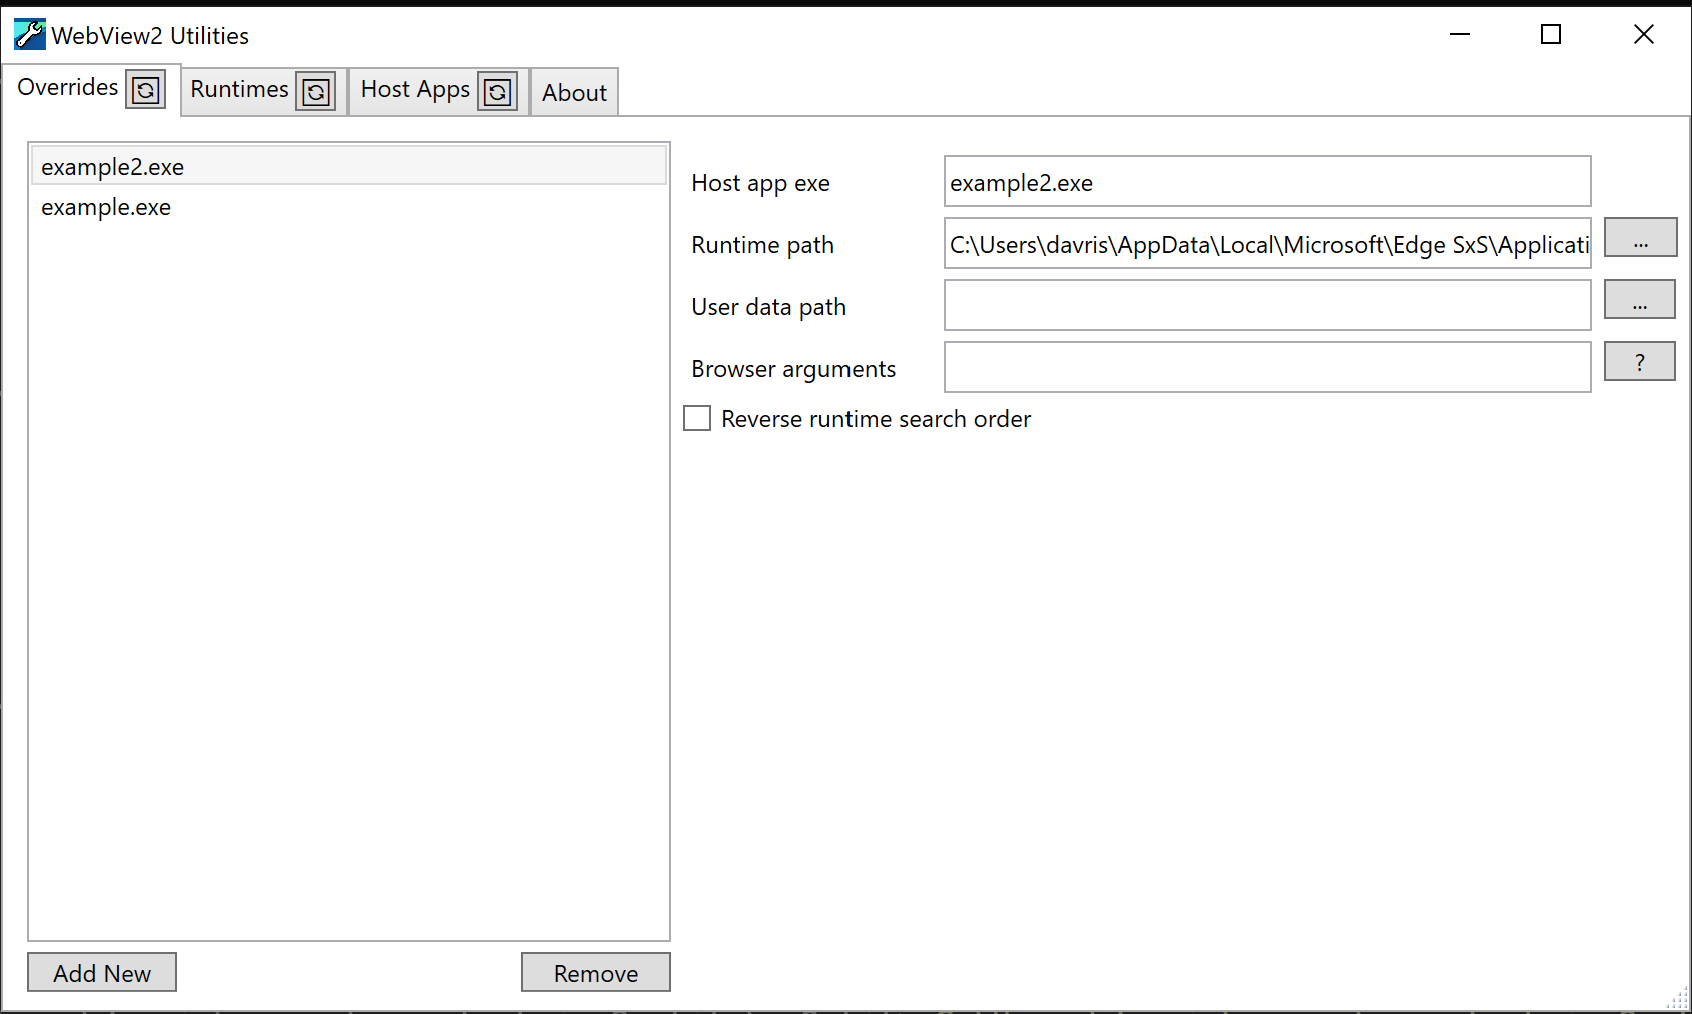
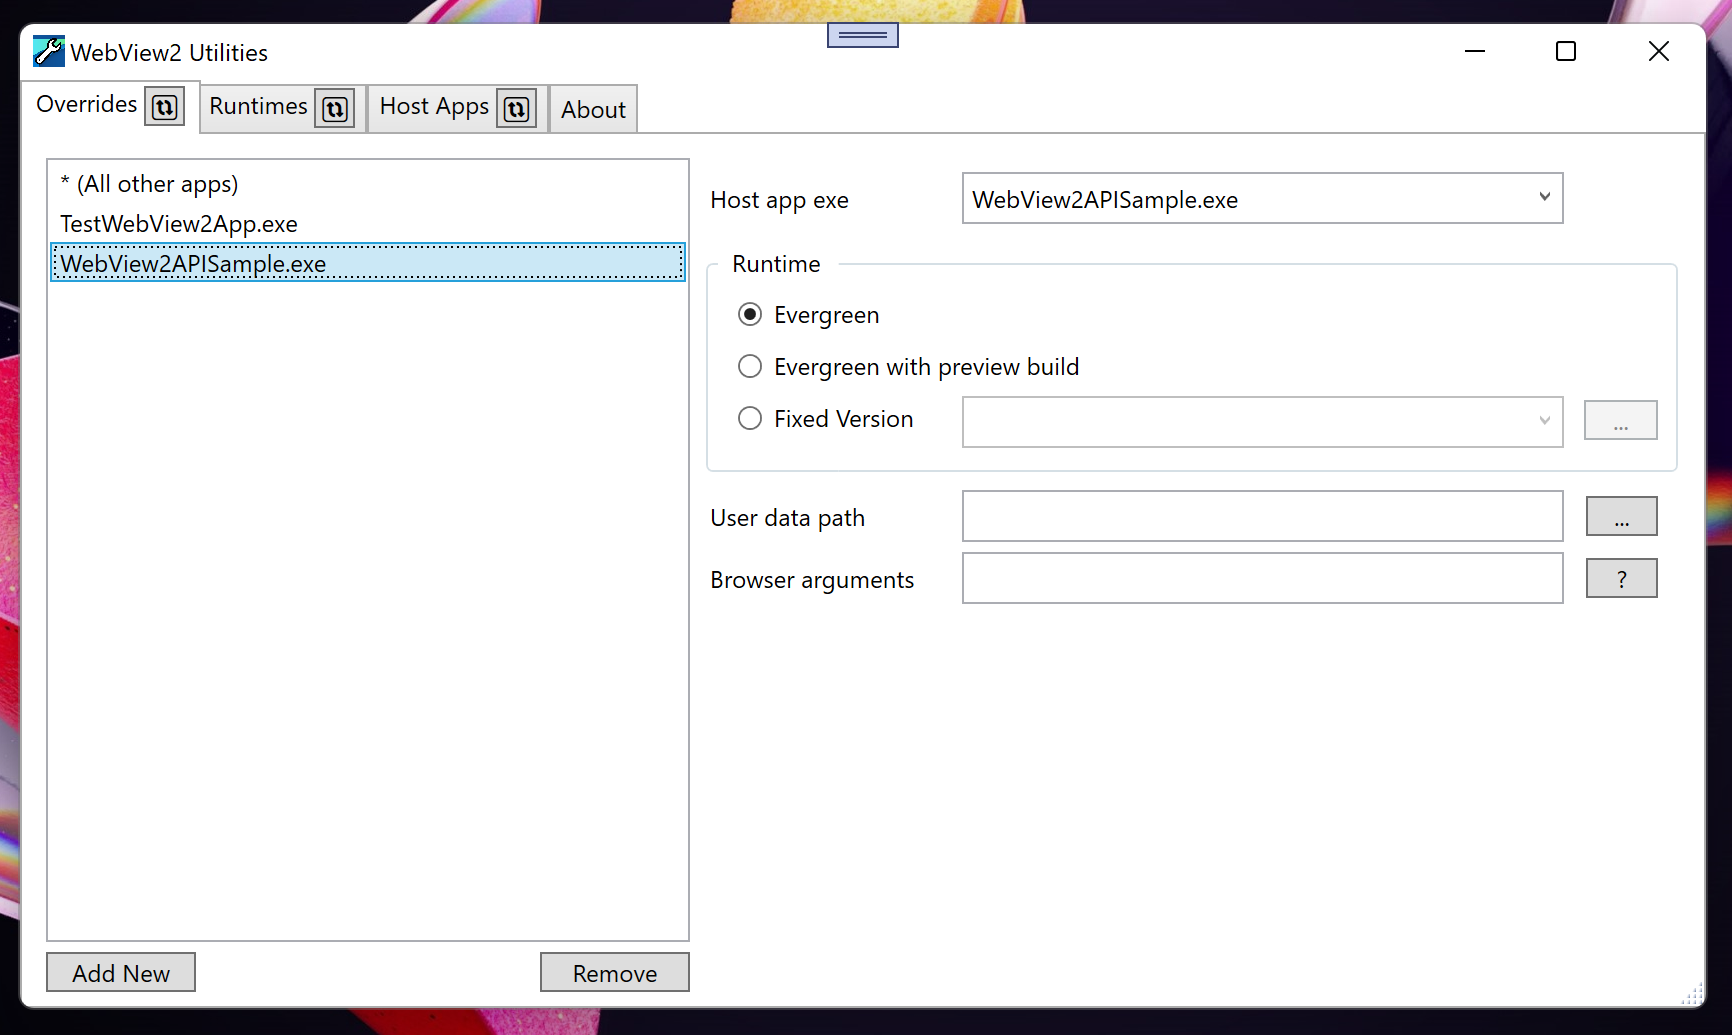
Update readme. Fix version sorting bug.

Changed region(s): [[0.0, 0.0, 1.0, 1.0], [0.3995, 0.5503, 0.5225, 0.5809], [0.3995, 0.4892, 0.4917, 0.5197]]

diff --git a/wv2util/AppOverrideUi.xaml b/wv2util/AppOverrideUi.xaml
@@ -107,7 +107,7 @@
                     </ListView>
                     <Expander Grid.Row="1">
                         <Expander.Header>
-                            <Label Style="{StaticResource subHeading}" Content="Find more WebView2 Runtimes" />
+                            <Label Content="Find more WebView2 Runtimes" />
                         </Expander.Header>
                         <TextBlock HorizontalAlignment="Stretch" VerticalAlignment="Stretch" Margin="30,0,0,10">
                             <TextBlock><Hyperlink NavigateUri="https://docs.microsoft.com/en-us/deployedge/microsoft-edge-release-schedule" RequestNavigate="Hyperlink_RequestNavigate">Microsoft Edge release schedule</Hyperlink></TextBlock>

diff --git a/wv2util/SortUtil.cs b/wv2util/SortUtil.cs
@@ -46,6 +46,15 @@ namespace wv2util
 
         public static int CompareVersionStrings(string left, string right)
         {
+            // If its not a version number just give it an effective 0 version.
+            if (!left.Contains('.'))
+            {
+                left = "0.0.0.0";
+            }
+            if (!right.Contains('.'))
+            {
+                right = "0.0.0.0";
+            }
             IEnumerable<int> leftParts = left.Split('.').Select(partAsString => int.Parse(partAsString));
             IEnumerable<int> rightParts = right.Split('.').Select(partAsString => int.Parse(partAsString));
 

diff --git a/README.md b/README.md
@@ -1,5 +1,8 @@
 # WebView2Utilities
-WebView2 Utilities help you develop and debug Microsoft Edge WebView2 apps.
+
+WebView2Utilities help you develop and debug Microsoft Edge WebView2 apps.
+
+![Screenshot of WebView2 Utilities](screenshot.png)
 
 ## Install & Run
 
@@ -7,18 +10,34 @@ WebView2 Utilities help you develop and debug Microsoft Edge WebView2 apps.
 * Or copy the binaries off the [releases page](https://github.com/david-risney/webview2-utils/releases/) to somewhere on your machine.
 * Or build [the code](https://github.com/david-risney/webview2-utils) yourself.
 
-## Override tab
-![Screenshot of WebView2 Utilities](screenshot.png)
+## UI details
+
+The app has three tabs for the different main WebView2Utilities features. Each tab has a `Refresh` button in the tab which you can use to force the information in that to reload.
+
+### Override tab
+
 This tab helps you set the [loader override policy registry keys](https://docs.microsoft.com/en-us/microsoft-edge/webview2/reference/win32/webview2-idl?view=webview2-1.0.774.44#createcorewebview2environmentwithoptions).
 
-* `Host app exe` is the name of the host app's executable. Alternatively if you set this to `*` it applies to every host app that doesn't otherwise have a match.
-* `Runtime path` is the path to a WebView2 Runtime or non-stable channel Microsoft Edge browser. The path should have the msedgewebview2.exe in it. If set the host app will use this runtime instead of whatever they requested.
+* `Host app exe` is the name of the host app's executable that the rest of the settings will apply to. It applies to future webview2 creations. The '* (All other apps)' entry applies to all apps that don't have a specific entry in this list.
+* `Runtime` contains three options for forcing apps to pick a WebView2 Runtime.
+  * `Evergreen` is the usual manner of finding the WebView2 Runtime as described in the WebView2 documentation. First the WebView2 Runtime, then Beta, then Dev, then Canary channels.
+  * `Evergreen with preview build` reverses the usual order of discovering installed WebView2 Runtimes looking for the least stable channel first.
+  * `Fixed Version` lets you select an explicit path for a WebView2 Runtime. The path should have the msedgewebview2.exe in it. If set, the host app will use this runtime instead of whatever they requested.
 * `User data path` is the path to a user data folder. If set the host app will use this user data folder instead of whatever they requested.
 * `Browser arguments` is additional command line switches to be passed to the browser process created for the WebView2. If set, this is merged in with whatever the app sets. See the [list of chromium command line switches](https://peter.sh/experiments/chromium-command-line-switches/) to see what switches exist.
-* `Reverse runtime search order` if set and the Runtime path isn't set and the host app is using an evergreen runtime, then instead of discovering installed runtimes from most stable to least stable channel, instead they will be picked from least stable to most stable channel.
 
-## Runtimes tab
-Press the refresh button in the Runtimes tab to populate the list of installed WebView2 Runtimes and Microsoft Edge browser installations. These are paths that you might use with the `Runtime path` field in the Overrides tab.
+You can use the `Add New` and `Remove` buttons to add and remove entries to the list. Additionally the Host app exe has a drop down of running host app executables for your convenience. Similarly, the Fixed Version has a drop down of found WebView Runtimes.
 
-## Host Apps tab
-Press the refresh button in the Host Apps tab to populate the list of running apps using WebView2. This will only show apps with active WebView2 instances running. If an app has more than one WebView2 browser process running multiple entries will be listed for that app. From here you can see information about which runtime the app is using, and user data folder.
+### Runtimes tab
+
+The Runtimes tab lists the found installed WebView2 Runtimes and non-stable Microsoft Edge browser installations. These are paths that you might use with the `Fixed Version` field in the Overrides tab.
+
+There's a section at the bottom with links to install additional versions of the WebView2 Runtime.
+
+### Host Apps tab
+
+This tab lists the running processes that have a WebView2 SDK DLL or WebView2 Runtime client DLL loaded. This includes the SDK version and which runtime the process is using. Loading the list of processes takes a while. You can use the Refresh button to refresh the list.
+
+### About tab
+
+Application version and helpful links.
